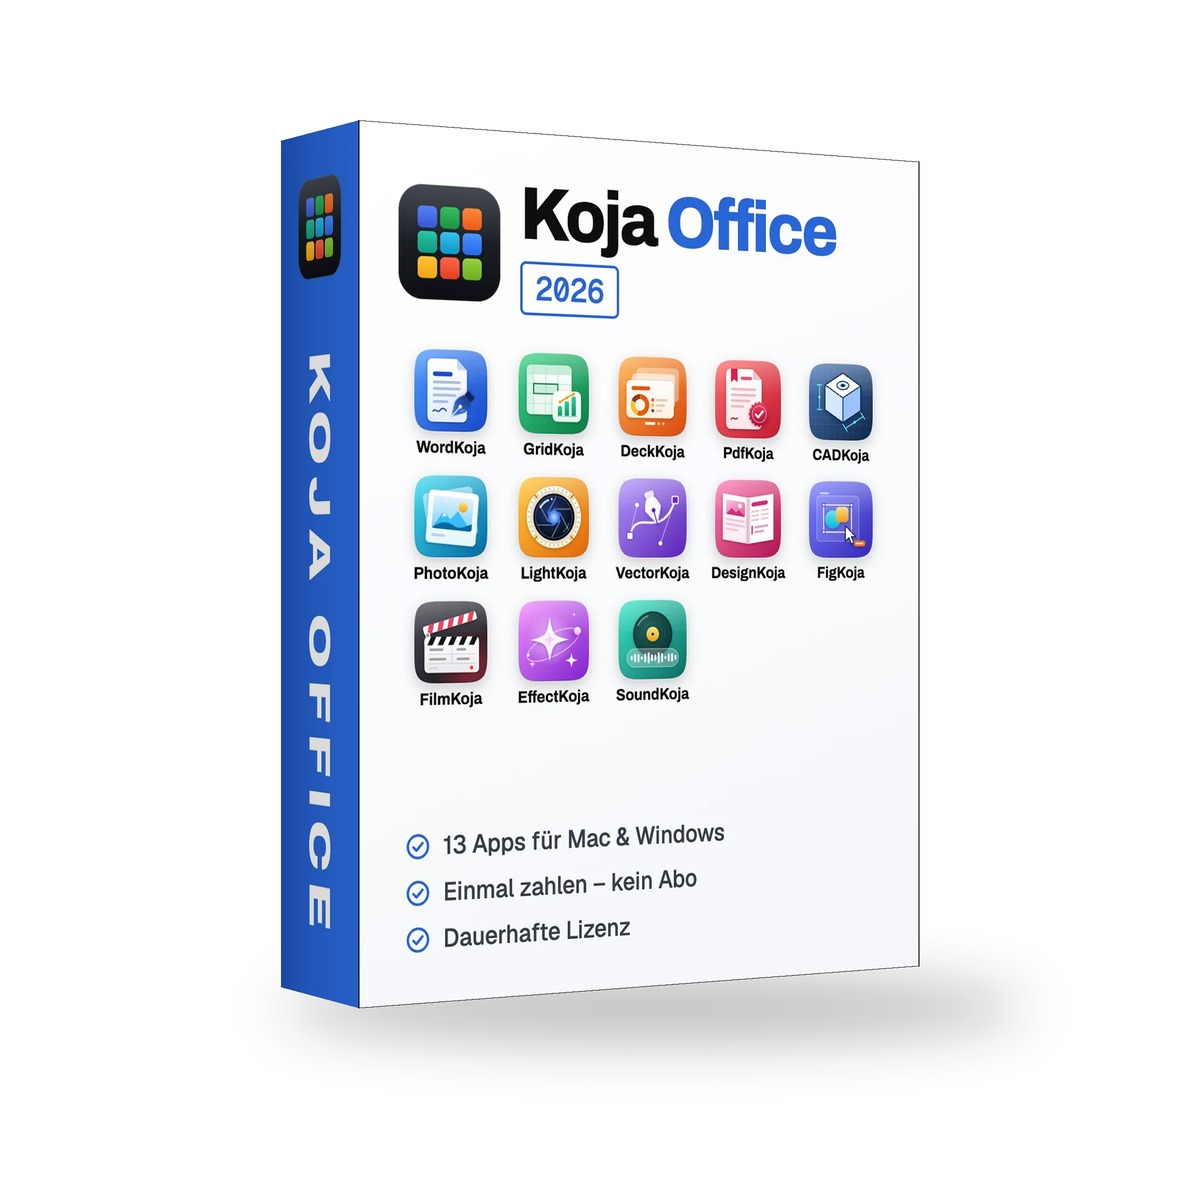
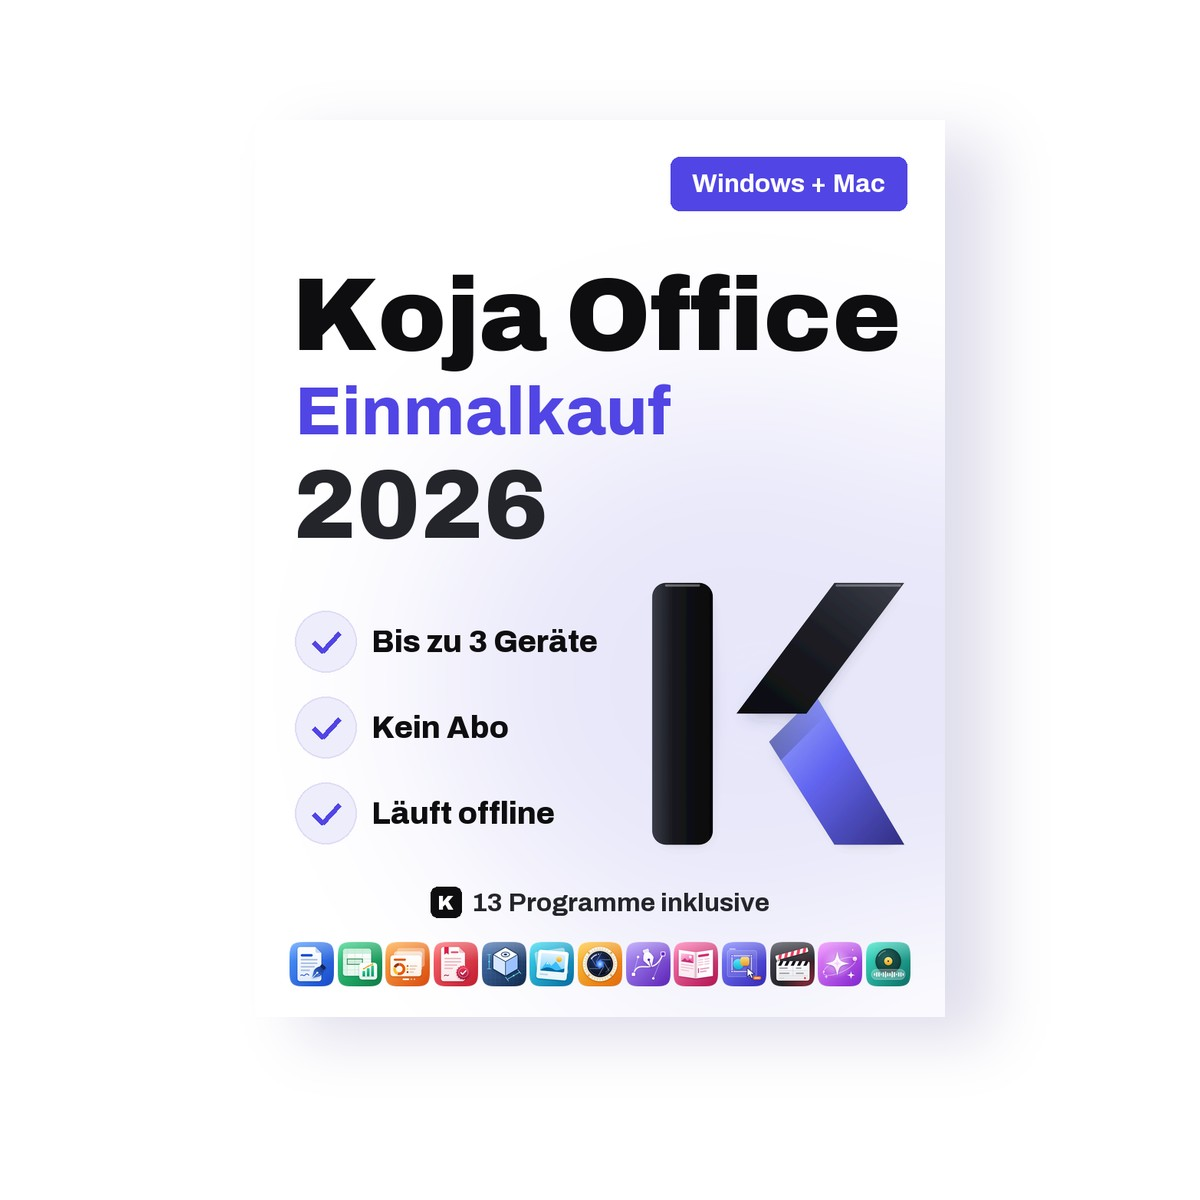
Koja Office im neuen Erscheinungsbild (2026) (#50)
Neue Box-Flächen mit dem facettierten K, "Koja Office / Einmalkauf / 2026",
"Windows + Mac"-Badge und App-Leiste; neues Koja-Office-Icon (K auf weißer
Kachel); /office-Akzent von Blau auf Indigo. Texte ohne Dauer-Zusagen.
Stripe-Produktbild (checkout/koja-office-box.jpg) zeigt die neue Box.

Changed region(s): [[0.2158, 0.0925, 0.8325, 0.8942]]

diff --git a/src/app/office/office.css b/src/app/office/office.css
@@ -10,9 +10,9 @@
   --ko-night: #0a0a0c;
   --ko-tile: #141416;
   --ko-line: rgba(255, 255, 255, 0.13);
-  --ko-blue: #2a66d8;
-  --ko-blue-ink: #1f55c0;
-  --ko-blue-light: #79a5fe;
+  --ko-blue: #5145e5; /* Koja Office 2026 look: indigo */
+  --ko-blue-ink: #4338ca;
+  --ko-blue-light: #9b93ff;
   --ko-yellow: #ffd84d;
   --ko-red: #ff7b80;
   --ko-buy: #15803d;
@@ -197,7 +197,7 @@
   overflow: hidden;
   background-color: var(--ko-night);
   background-image:
-    radial-gradient(var(--gw) var(--gh) at var(--gx) var(--gy), rgba(42, 102, 216, 0.36), rgba(16, 27, 49, 0.26) 42%, rgba(10, 10, 12, 0) 70%),
+    radial-gradient(var(--gw) var(--gh) at var(--gx) var(--gy), rgba(81, 69, 229, 0.36), rgba(16, 27, 49, 0.26) 42%, rgba(10, 10, 12, 0) 70%),
     radial-gradient(70% 34% at 0% 100%, rgba(255, 216, 77, 0.07), rgba(255, 216, 77, 0) 70%),
     linear-gradient(rgba(255, 255, 255, 0.04) 1px, transparent 1px),
     linear-gradient(90deg, rgba(255, 255, 255, 0.04) 1px, transparent 1px);
@@ -1247,7 +1247,7 @@ html.js .ko-once[data-reveal]:not(.is-in) i {
 }
 .ko-form > input:focus {
   border-color: var(--ko-blue);
-  outline: 3px solid rgba(42, 102, 216, 0.3);
+  outline: 3px solid rgba(81, 69, 229, 0.3);
   outline-offset: 0;
 }
 .ko-form > .ko-btn {
@@ -1434,7 +1434,7 @@ html.js .ko-once[data-reveal]:not(.is-in) i {
   margin-top: 30px;
   background: #fff;
   color: var(--ko-ink);
-  box-shadow: 0 30px 50px -30px rgba(42, 102, 216, 0.75);
+  box-shadow: 0 30px 50px -30px rgba(81, 69, 229, 0.75);
 }
 .ko-rcpt-head {
   display: flex;

diff --git a/src/app/office/page.tsx b/src/app/office/page.tsx
@@ -211,7 +211,7 @@ function OrderCard() {
     <div className="ko-ui">
       <p className="ko-ui-cap">Bestellung</p>
       <div className="ko-ui-row">
-        <Image src="/office/koja-office-icon.svg" alt="" width={34} height={34} unoptimized />
+        <Image src="/office/koja-office-icon.png" alt="" width={34} height={34} unoptimized />
         <span>
           <b>Koja Office 2026</b>
           <small>Dauerlizenz</small>
@@ -302,7 +302,7 @@ export default async function OfficePage({ searchParams }: { searchParams: Promi
               <div className="ko-col">
                 <div className="ko-brand">
                   <Link href="/software" title="Mehr über Kojalytics und die Koja-Apps" className="ko-brand-mark">
-                    <Image src="/office/koja-office-icon.svg" alt="" width={28} height={28} unoptimized priority />
+                    <Image src="/office/koja-office-icon.png" alt="" width={28} height={28} unoptimized priority />
                     <span>Kojalytics</span>
                   </Link>
                   <span className="ko-hud">Direkt vom Hersteller</span>

diff --git a/src/components/offer/OfferTeaser.tsx b/src/components/offer/OfferTeaser.tsx
@@ -4,7 +4,7 @@ import { ArrowRight } from "lucide-react";
 import { PLANS } from "@/lib/pricing";
 import { OFFER_CODE, OFFER_END_LONG, OFFER_HREF, OFFER_LABEL, OFFER_PRICE, isOfferRunning } from "@/lib/offer";
 
-const icon = <Image src="/office/koja-office-icon.svg" alt="" width={44} height={44} unoptimized className="h-11 w-11" />;
+const icon = <Image src="/office/koja-office-icon.png" alt="" width={44} height={44} unoptimized className="h-11 w-11" />;
 
 /**
  * One line on Koja Office right after the first section of the busiest entry pages (home, /lizenzen), so nobody has
